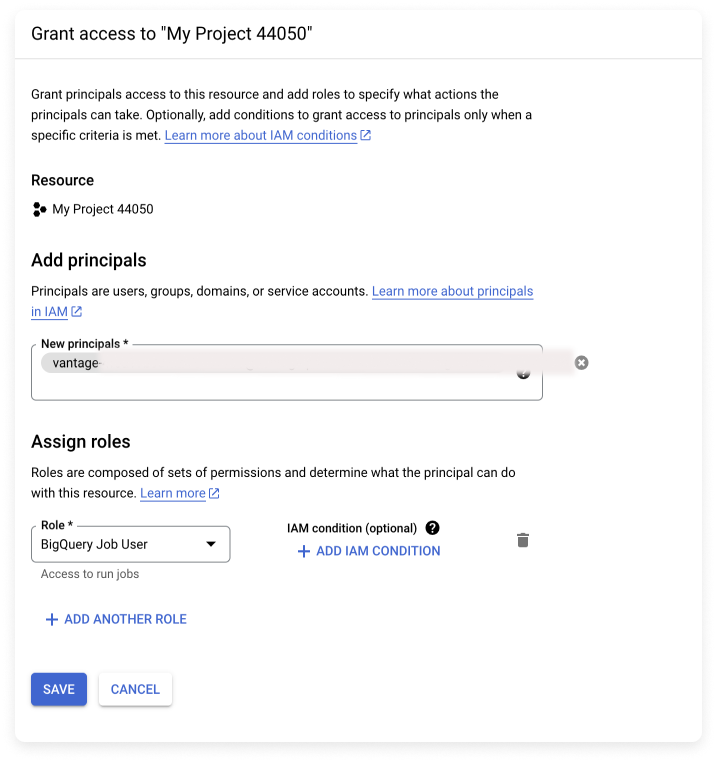
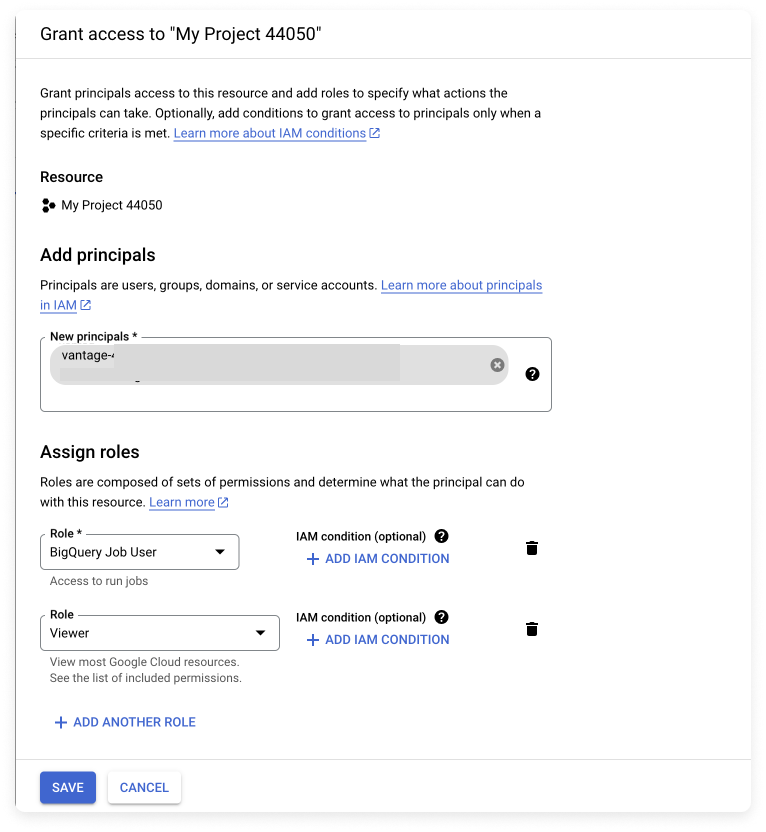
Add updates

diff --git a/docs/network_flow_reports.md b/docs/network_flow_reports.md
@@ -40,6 +40,18 @@ See the [AWS documentation](https://docs.aws.amazon.com/vpc/latest/userguide/flo
 
 When you enable VPC Flow Logs, you incur both S3 storage costs and CloudWatch data ingestion costs on your AWS bill. These charges are represented in the costs for the S3 bucket where your flow logs are written to as well as an `S3-Egress` fee from CloudWatch. Unfortunately, there is no way around these costs being incurred. Vantage has contacted various AWS platform teams to attempt to remove this cost, but this is likely a limitation that AWS is unwilling to change or remove.
 
+These logs are considered [Vended Logs](https://aws.amazon.com/cloudwatch/pricing/#Vended_Logs). You can create a [Cost Report](/cost_reports) that monitors these charges:
+
+- Set **Provider** to **AWS**.
+- Set **Subcategory** to **AmazonCloudWatch contains VendedLog**.
+
+Note that Vended Logs can include other cost sources besides VPC Flow Logs, but you can expect an increase in those costs after enabling them. The filters for this Cost Report are provided below.
+
+<div style={{display:"flex", justifyContent:"center"}}>
+<img alt="Cost Report with filters for Vended Logs" width="80%" src="/img/vended-logs.png" />
+</div>
+<br/>
+
 :::info
 For more information about VPC Flow Logs pricing, see this [Cloud Cost Handbook article](https://handbook.vantage.sh/aws/services/vpc-flow-logs-pricing/).
 :::
@@ -49,6 +61,9 @@ For more information about VPC Flow Logs pricing, see this [Cloud Cost Handbook 
 1. From the top navigation bar, click **Active Resources**.
 2. From the side navigation bar, select **Network Flow Reports**.
 3. Click **Configure VPC Flow Logs**.
+   :::note
+   See the [Troubleshooting](/network_flow_reports#troubleshooting) section if you are running into issues with seeing some of your flow logs on the onboarding workflow.
+   :::
 4. All flow logs that have been synced as active resources in Vantage are displayed in the left panel of the onboarding workflow. Click the checkbox next to any listed flow log to select all log files. You can also click the down arrow to the right of any flow log and select or deselect specific log files listed.
    :::tip
    If you do not see specific flow log files, check whether they are [synced as active resources](https://console.vantage.sh/resources/new?filter={"||"%3A[{"^"%3A[{"%3D"%3A["provider_id"%2C1]}%2C{"||"%3A[{"%3D"%3A["type"%2C"ProviderResource%3A%3AAws%3A%3AVpcFlowLog"]}]}]}]}&resource_type=ProviderResource%3A%3AAws%3A%3AVpcFlowLog&title=VPC+Flow+Logs) in Vantage. Ensure that all accounts where there are flow logs have [active resources enabled](/active_resources/#aws-active-resources) in Vantage.
@@ -91,6 +106,18 @@ When you click **Check Permissions** during the onboarding process, an error is 
 
 An error is displayed for buckets that are encrypted with AWS Key Management Service (KMS). You will need to either remove encryption on these buckets or provide Vantage the necessary permissions to decrypt (i.e., `kms:Decrypt`).
 
+#### No Logs Displayed
+
+You may see a message indicating _No VPC flow logs with log destination found. If you have recently created these resources it may take up to 24 hours for Vantage to sync the metadata._ Wait at least 24 hours if you recently created new resources. This can also be an issue if you have not enabled active resource syncing. To enable syncing:
+
+1. Navigate to the [Workspaces](https://console.vantage.sh/settings/workspaces) section of the console.
+2. Select the workspace your AWS integration is set up.
+3. At the top, ensure **Active Resource Syncing** is turned on.
+
+<div style={{display:"flex", justifyContent:"center"}}>
+<img alt="Active Resource Syncing in the Workspaces UI" width="80%" src="/img/active-resource-sync.png" />
+</div>
+
 ### Manage Existing Integrations
 
 You can view your integration status and add additional flow logs from the [VPC Flow Logs integration](https://console.vantage.sh/settings/aws?vpc_flow_logs=true) page. At the top of the **Manage Connected VPC Flow Logs** panel, click **Manage**. The **Manage Flow Logs** pop-up window is displayed. After the initial import, you can perform the following actions from this window:
@@ -120,6 +147,7 @@ Follow the steps below to create a new Network Flow Report:
    </div>
    - In the table below the diagram, the network flow information is displayed along with the volume of traffic (in bytes). The table is sorted in descending order by the **Estimated Cost** column. Click any column header to change the sort order. Each flow shows the estimated cost associated with that specific traffic route, helping you identify the most expensive data transfers. (See the [section below](/network_flow_reports#estimated-cost) for details on how the Estimated Cost column is calculated.)
    - For each listed resource, a link to the [**Active Resources** screen](/active_resources) is provided. Click this link to view additional metadata about the resource. From the **Active Resources** screen, click the **Relationships** tab to view any associated resources, such as a corresponding IGW for a VPC resource.
+
 5. You can update the criteria displayed in the Sankey diagram with the following options:
    - By default, both egress and ingress traffic are displayed. Expand the **Flow Direction** menu above the diagram to change the flow to only **Egress** or **Ingress**.
    - From the top right of the diagram, update the date range that’s displayed. Click the calendar icon and select an option, such as **Last 7 Days**, **This Month**, etc.
@@ -399,7 +427,7 @@ To add additional columns to the table and diagram, expand the **Group By** menu
     </div>
 </div>
 
-###  Adjust Flow Weight {#flow-weight}
+### Adjust Flow Weight {#flow-weight}
 
 By default, the Sankey diagram is weighted by estimated cost. You can change this view to be weighted by bytes, or volume. Above the chart, click the **Flow Weight** menu and select **Costs** or **Bytes**. The Sankey diagram is updated accordingly. When you hover over a flow, the corresponding cost or volume in bytes is displayed in the tooltip.
 

diff --git a/docs/connecting_gcp.md b/docs/connecting_gcp.md
@@ -43,12 +43,16 @@ If your GCP billing data is typically displayed in a currency other than USD, Va
 
 Open a new browser tab, and navigate to the [Vantage GCP Settings page](https://console.vantage.sh/settings/gcp). You should see your customer-specific service account displayed at the top of the integration page. Keep this page open.
 
-### Step 1: Grant the Vantage Service Account Permission to Access BigQuery {#service-account-permissions}
+### Step 1: Grant the Vantage Service Account Permission to Access BigQuery and Active Resources {#service-account-permissions}
 
-Back in GCP, navigate to the [IAM console](https://console.cloud.google.com/iam-admin/iam), and complete the steps below to grant the Vantage service account permission to access BigQuery.
+Back in GCP, navigate to the [IAM console](https://console.cloud.google.com/iam-admin/iam), and complete the steps below to grant the Vantage service account permission to access BigQuery. To enable [active resources](/active_resources), you must also grant the **Viewer** role to the Vantage GCP service account. This role allows read-only access to all resources in the project, enabling Vantage to gather data on active resources.
+
+:::info
+For a list of all supported GCP active resources, see the [GCP Supported Services](/gcp_supported_services) documentation.
+:::
 
 1. At the top of the IAM console, select the project that hosts the BigQuery dataset with your Cloud Billing export data.
-2. Configure the following permission:
+2. Configure the following permissions:
    - In the center of the page, under **Permissions for project "My Project ABCD"**, click **+ GRANT ACCESS**.
    <details><summary>Expand to view example image</summary>
    <div>
@@ -56,10 +60,13 @@ Back in GCP, navigate to the [IAM console](https://console.cloud.google.com/iam-
    </details>
    - In the **New principals** field, under **Add principals**, paste the value for your Vantage service account. This value is the one displayed on the [Vantage GCP Integration page](https://console.vantage.sh/settings/gcp) you opened earlier.
    - In the **Role** field, under **Assign roles**, search for and select **BigQuery Job User**.
+   - Click **+ ADD ANOTHER ROLE**.
+   - Under **Assign roles**, click **Basic** and select the **Viewer** role from the **Role** list. This adds the role needed for active resources. 
    <details><summary>Expand to view example image</summary>
    <div>
    <img alt="Grant GCP project access" width="80%" src="/img/connect-gcp/gcp-grant-project-access.png"/> </div>
    </details>
+
 3. Click **SAVE**.
 
 ### Step 2: Grant the Vantage Service Account Permission to Access the BigQuery Dataset {#bigquery-permissions}
@@ -116,31 +123,6 @@ Keep BigQuery open in one of your browser tabs. Go back to the [Vantage GCP Inte
 :::caution Important
 It typically takes a few hours for data to start appearing. Cloud Billing data is added retroactively for the current and previous month when detailed usage cost data is configured. Full data for the current and previous month can take 24–48 hours to fully propagate.
 :::
-
-### Step 4: Add Support for Active Resources {#gcp-active-resources}
-
-To enable [active resources](/active_resources), you must grant the Viewer role to the Vantage GCP service account. This role allows read-only access to all resources in the project, enabling Vantage to gather data on active resources.
-
-:::info
-For a list of all supported GCP active resources, see the [GCP Supported Services](/gcp_supported_services) documentation.
-:::
-
-1. Open the **IAM Console**.
-2. At the top, select the project where you want to enable active resources. You will need to enable active resources on a per-project basis.
-3. In the center of the page, under **Permissions for project "Your Project Name"**, click **+ GRANT ACCESS**.
-   <details><summary>Expand to view example image</summary>
-   <div>
-   <img alt="Add permissions for project" width="80%" src="/img/connect-gcp/active-resources-1.png"/> </div>
-   </details>
-4. Under **Add principals**, add the Vantage GCP service account displayed on the Vantage console integration page.
-5. Under **Assign roles**, click **Basic** and select the **Viewer** role from the **Role** list. 
-   <details><summary>Expand to view example image</summary>
-   <div>
-   <img alt="Add viewer role for service account" width="80%" src="/img/connect-gcp/active-resources-2.png"/> </div>
-   </details>
-6. Click **SAVE**.
-
-Repeat these steps for each project where you want to enable active resources, and ensure the Vantage GCP service account is added to all relevant projects.
 
 ### Next Steps: Manage Workspace Access
 

diff --git a/docs/kubernetes_agent.md b/docs/kubernetes_agent.md
@@ -36,6 +36,14 @@ At this time, the agent does not support custom rates for on-premises servers. N
 
 As long as the cost data for an underlying cluster instance is ingested into Vantage via a cloud integration, it is possible to calculate the corresponding pod costs.
 
+### Google Kubernetes Engine (GKE) Autopilot {#gke-autopilot}
+
+For [GKE Autopilot](https://cloud.google.com/kubernetes-engine/docs/concepts/autopilot-overview) users, you don’t need to install the agent. These costs will already be present under **Cost By Resource** for the **Kubernetes Engine** service in a [Cost Report](/cost_reports).
+
+<div style={{display:"flex", justifyContent:"center"}}>
+    <img alt="GKE Autopilot filters on a Cost Report" width="80%" src="/img/gke-autopilot.png" />
+</div>
+
 ## Install Vantage Kubernetes Agent {#install-vantage-kubernetes-agent}
 
 ### Prerequisites {#prerequisites}

diff --git a/docs/report_notifications.md b/docs/report_notifications.md
@@ -42,7 +42,7 @@ Vantage users can add Vantage to their team's Slack account in a specific channe
   </div>
 </details>
 
-To add the integration to a private channel, add the Vantage app with `/invite @Vantage`. See the [Set Up Cost Report Notifications](/report_notifications#create-notifications) section for instructions on how to set up notifications for specific reports.
+To add the integration to a private channel, open the channel in Slack, create a new message in the channel, and type `/invite @Vantage`. See the [Set Up Cost Report Notifications](/report_notifications#create-notifications) section for instructions on how to set up notifications for specific reports.
 
 ## Set Up Microsoft Teams Integration {#ms-teams}
 
